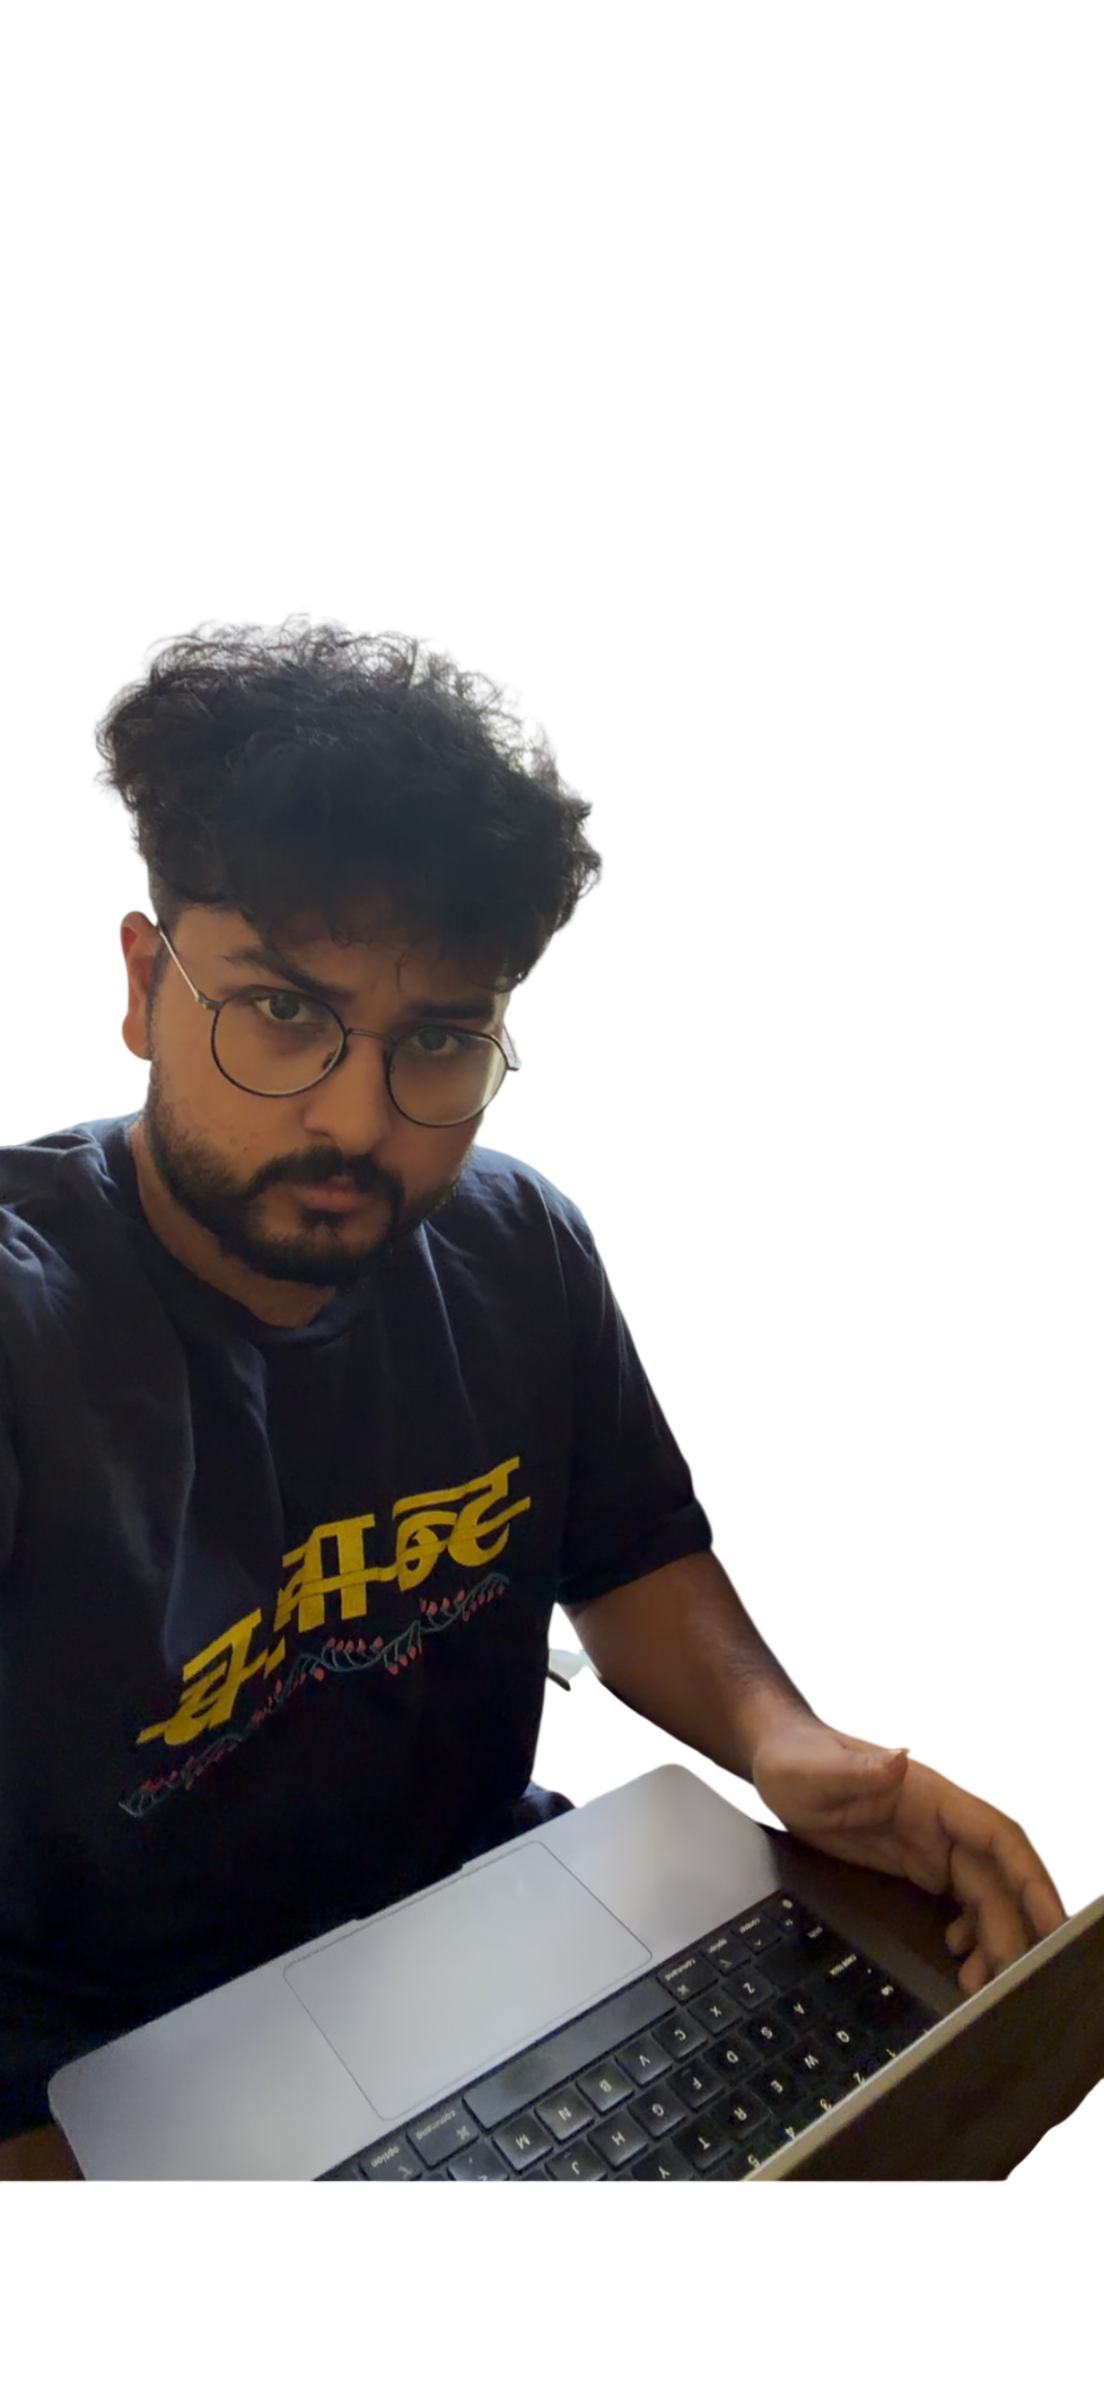
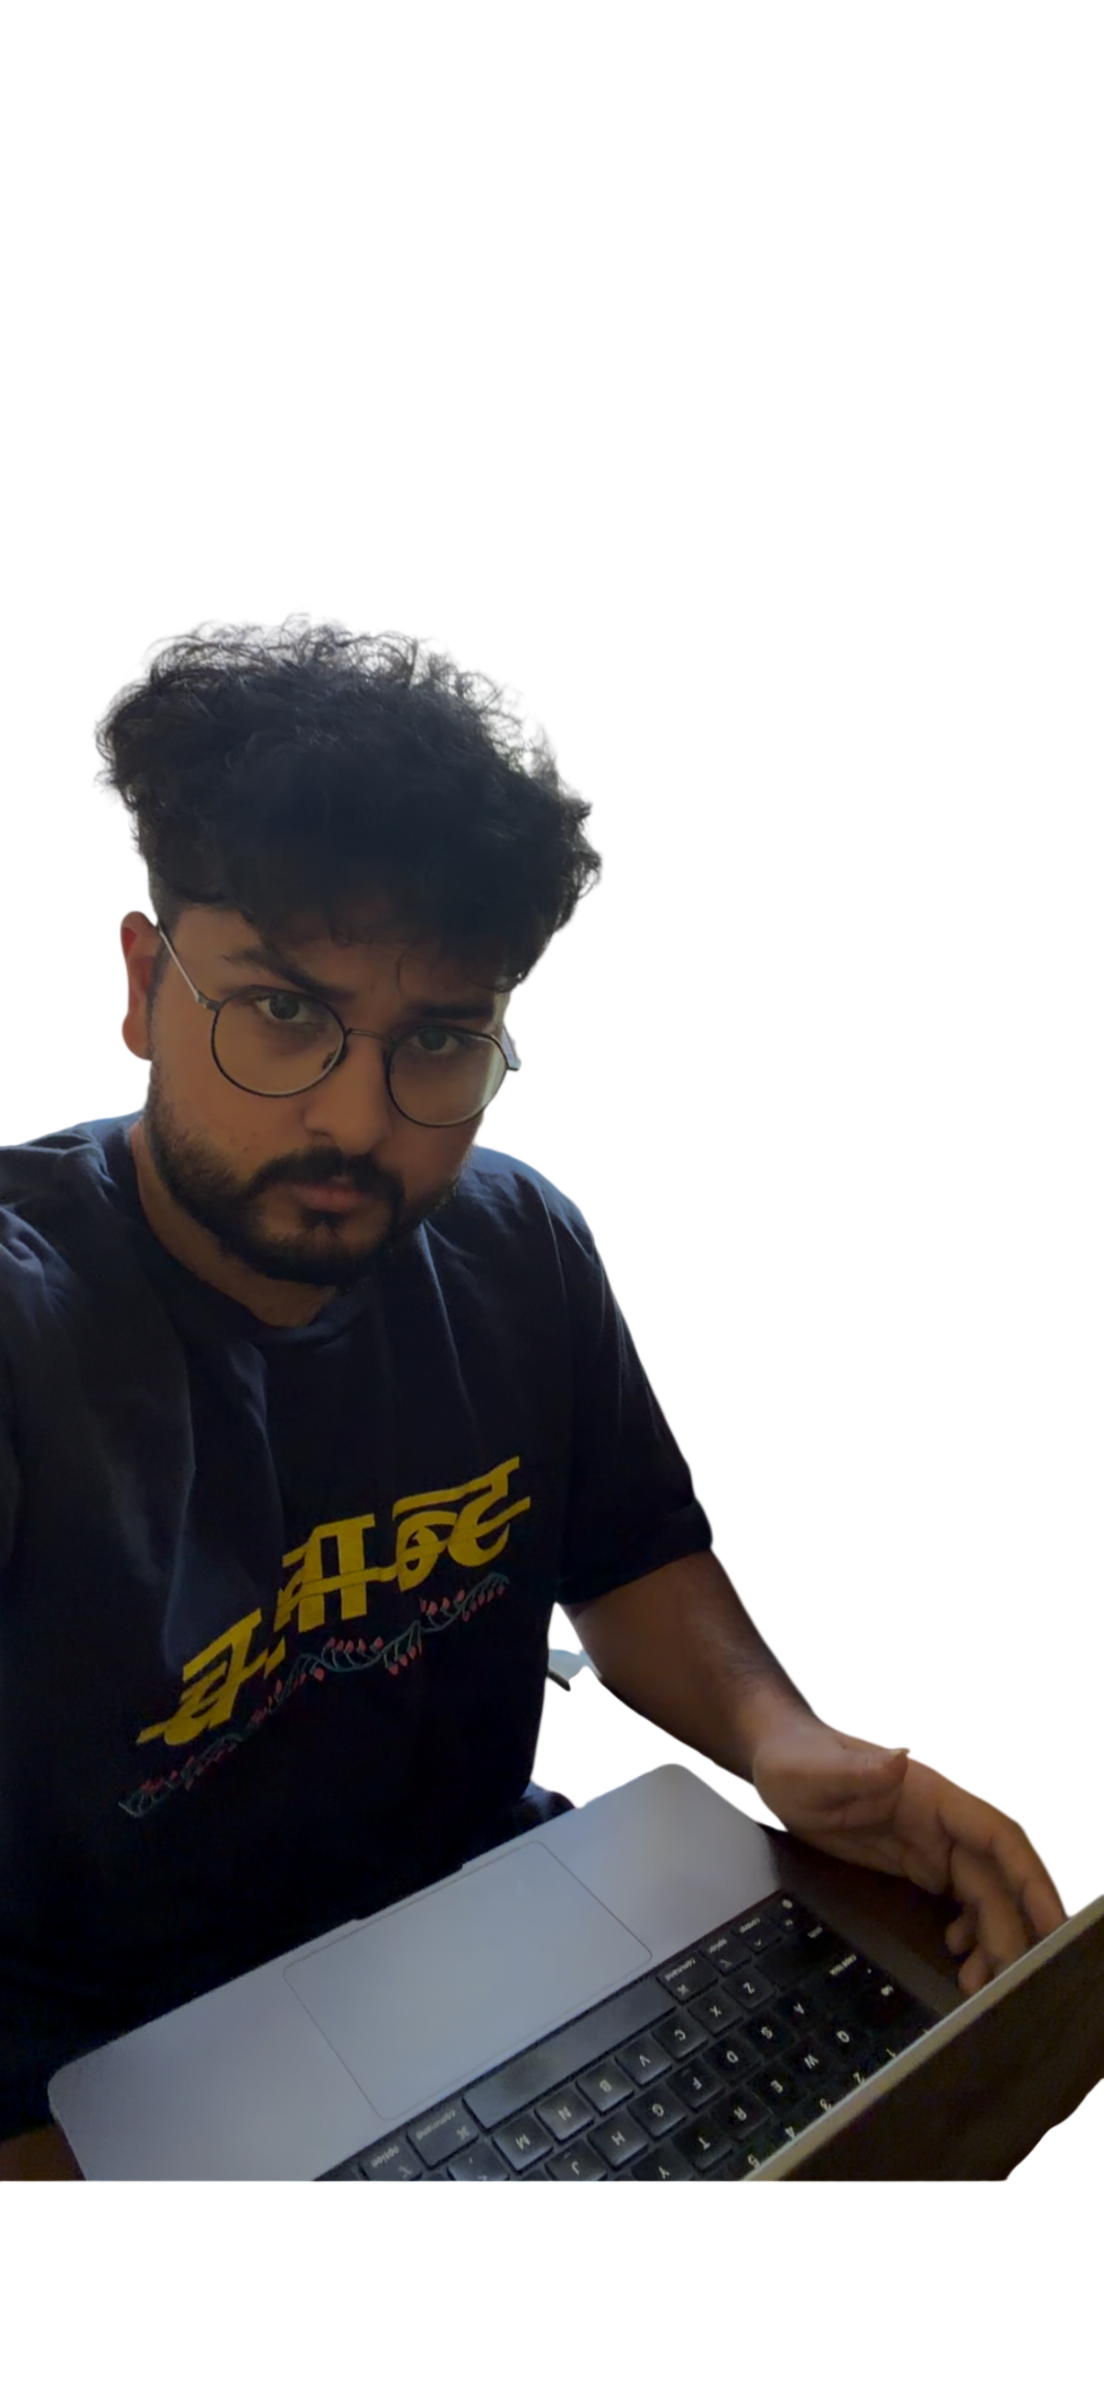
add: radial navbar

diff --git a/components/ui/navbar.tsx b/components/ui/navbar.tsx
@@ -1,11 +1,18 @@
 "use client";
 
-import { Menu, X } from "lucide-react";
-import { motion,useScroll, useSpring, useTransform, useVelocity } from "motion/react";
+import { FolderKanban, House, Menu, MessageCircle, User, X } from "lucide-react";
+import {
+  AnimatePresence,
+  motion,
+  useScroll,
+  useSpring,
+  useTransform,
+  useVelocity,
+} from "motion/react";
 import Image from "next/image";
 import Link from "next/link";
 import { usePathname } from "next/navigation";
-import { useState } from "react";
+import { useEffect, useState } from "react";
 
 import { cn } from "@/lib/utils";
 
@@ -132,10 +139,127 @@ function Notch() {
   );
 }
 
-export function Navbar() {
+const MAIL_HREF = "mailto:rohosen2@gmail.com?subject=Hello Roho! I'd like to discuss a project with you.";
+
+const radialItems = [
+  { href: "/", label: "Home", icon: House },
+  { href: "/work", label: "Work", icon: FolderKanban },
+  { href: "/#about", label: "About", icon: User },
+  { href: "/#contact", label: "Contact", icon: MessageCircle },
+];
+
+const RADIUS = 150;
+const DISC_SIZE = (RADIUS + 44) * 2;
+// Fan from straight left (180deg) to straight down (90deg), since the button sits top-right.
+const ARC_START = 180;
+const ARC_END = 90;
+
+function radialPosition(index: number) {
+  const step = (ARC_END - ARC_START) / (radialItems.length - 1);
+  const angle = ((ARC_START + step * index) * Math.PI) / 180;
+  return { x: Math.cos(angle) * RADIUS, y: Math.sin(angle) * RADIUS };
+}
+
+function RadialMenu() {
   const pathname = usePathname();
+  const [open, setOpen] = useState(false);
+
+  useEffect(() => setOpen(false), [pathname]);
+
+  useEffect(() => {
+    if (!open) return;
+    const onKey = (e: KeyboardEvent) => e.key === "Escape" && setOpen(false);
+    window.addEventListener("keydown", onKey);
+    return () => window.removeEventListener("keydown", onKey);
+  }, [open]);
+
+  return (
+    <div className="relative md:hidden">
+      <AnimatePresence>
+        {open && (
+          <>
+            <motion.div
+              key="scrim"
+              initial={{ opacity: 0 }}
+              animate={{ opacity: 1 }}
+              exit={{ opacity: 0 }}
+              onClick={() => setOpen(false)}
+              className="fixed inset-0 -z-10 bg-background/60 backdrop-blur-sm"
+            />
+            <motion.div
+              key="disc"
+              initial={{ scale: 0 }}
+              animate={{ scale: 1 }}
+              exit={{ scale: 0 }}
+              transition={{ type: "spring", stiffness: 260, damping: 26 }}
+              style={{ width: DISC_SIZE, height: DISC_SIZE, marginLeft: -DISC_SIZE / 2, marginTop: -DISC_SIZE / 2 }}
+              className="absolute left-1/2 top-1/2 -z-10 rounded-full border border-border bg-card/90"
+            />
+          </>
+        )}
+      </AnimatePresence>
+
+      <AnimatePresence>
+        {open &&
+          radialItems.map((item, index) => {
+            const { x, y } = radialPosition(index);
+            const isActive = item.href === pathname;
+            const Icon = item.icon;
+            const className = cn(
+              "flex size-12 items-center justify-center rounded-full border transition-colors",
+              isActive
+                ? "bg-primary text-primary-foreground border-primary"
+                : "bg-background text-foreground border-border active:bg-secondary"
+            );
+            return (
+              <motion.div
+                key={item.href}
+                initial={{ x: 0, y: 0, scale: 0, opacity: 0 }}
+                animate={{ x, y, scale: 1, opacity: 1 }}
+                exit={{ x: 0, y: 0, scale: 0, opacity: 0 }}
+                transition={{ type: "spring", stiffness: 380, damping: 24, delay: index * 0.035 }}
+                className="absolute left-1/2 top-1/2 -ml-6 -mt-6"
+              >
+                {item.href.startsWith("mailto:") ? (
+                  <a href={item.href} aria-label={item.label} onClick={() => setOpen(false)} className={className}>
+                    <Icon className="size-5" />
+                  </a>
+                ) : (
+                  <Link href={item.href} aria-label={item.label} onClick={() => setOpen(false)} className={className}>
+                    <Icon className="size-5" />
+                  </Link>
+                )}
+              </motion.div>
+            );
+          })}
+      </AnimatePresence>
+
+      <motion.button
+        type="button"
+        aria-label={open ? "Close menu" : "Open menu"}
+        aria-expanded={open}
+        onClick={() => setOpen((v) => !v)}
+        whileTap={{ scale: 0.9 }}
+        className={cn(
+          "relative flex size-10 items-center justify-center rounded-full transition-colors",
+          open ? "bg-primary text-primary-foreground" : "bg-black text-foreground"
+        )}
+      >
+        <motion.span
+          key={open ? "close" : "open"}
+          initial={{ rotate: -90, opacity: 0 }}
+          animate={{ rotate: 0, opacity: 1 }}
+          transition={{ duration: 0.2 }}
+        >
+          {open ? <X className="size-5" /> : <Menu className="size-5" />}
+        </motion.span>
+      </motion.button>
+    </div>
+  );
+}
+
+export function Navbar() {
   const { scrollY } = useScroll();
-  const [mobileMenuOpen, setMobileMenuOpen] = useState(false);
 
   const backgroundColor = useTransform(
     scrollY,
@@ -173,67 +297,15 @@ export function Navbar() {
             <div className="hidden md:block w-[1px]" />
 
             <div className="flex items-center gap-4">
-              <Link href="mailto:rohosen2@gmail.com?subject=Hello Roho! I'd like to discuss a project with you." className="hidden md:block">
+              <a href={MAIL_HREF} className="hidden md:block">
                 <Button variant="glow">Get in touch</Button>
-              </Link>
-              <Button
-                variant="ghost"
-                size="icon"
-                className="md:hidden bg-black rounded-full aspect-square"
-                onClick={() => setMobileMenuOpen(!mobileMenuOpen)}
-              >
-                {mobileMenuOpen ? <X /> : <Menu />}
-              </Button>
+              </a>
+              <RadialMenu />
             </div>
           </div>
         </nav>
       </motion.header>
 
-      {mobileMenuOpen && (
-        <motion.div
-          initial={{ opacity: 0, y: -20 }}
-          animate={{ opacity: 1, y: 0 }}
-          exit={{ opacity: 0, y: -20 }}
-          className="fixed inset-0 z-40 bg-background pt-20 md:hidden"
-        >
-          <nav className="container px-4 py-8">
-            <div className="flex flex-col gap-2">
-              {navLinks.map((link, index) => (
-                <motion.div
-                  key={link.href}
-                  initial={{ opacity: 0, x: -20 }}
-                  animate={{ opacity: 1, x: 0 }}
-                  transition={{ delay: index * 0.1 }}
-                >
-                  <Link
-                    href={link.href}
-                    onClick={() => setMobileMenuOpen(false)}
-                  >
-                    <Button
-                      variant="ghost"
-                      className="w-full justify-start text-2xl font-display py-6"
-                    >
-                      {link.label}
-                    </Button>
-                  </Link>
-                </motion.div>
-              ))}
-              <motion.div
-                initial={{ opacity: 0, x: -20 }}
-                animate={{ opacity: 1, x: 0 }}
-                transition={{ delay: navLinks.length * 0.1 }}
-                className="mt-4"
-              >
-                <Link href="mailto:rohosen2@gmail.com?subject=Hello Roho! I'd like to discuss a project with you." onClick={() => setMobileMenuOpen(false)}>
-                  <Button variant="glow" className="w-full" size="lg">
-                    Get in touch
-                  </Button>
-                </Link>
-              </motion.div>
-            </div>
-          </nav>
-        </motion.div>
-      )}
     </>
   );
 }

diff --git a/components/ui/footer.tsx b/components/ui/footer.tsx
@@ -1,8 +1,10 @@
 "use client";
 
+import { ArrowUpRight, Github, Linkedin, Mail, Twitter } from "lucide-react";
 import { motion } from "motion/react";
 import Link from "next/link";
-import { Github, Linkedin, Twitter, Mail, ArrowUpRight } from "lucide-react";
+
+import { site } from "@/lib/profile";
 
 const socialLinks = [
   { href: "https://github.com/roho7", icon: Github, label: "GitHub" },
@@ -54,6 +56,20 @@ export function Footer() {
                 <ArrowUpRight className="w-6 h-6 transition-transform group-hover:translate-x-1 group-hover:-translate-y-1" />
               </Link>
             </motion.div>
+            <motion.div
+              initial={{ opacity: 0, y: 20 }}
+              whileInView={{ opacity: 1, y: 0 }}
+              viewport={{ once: true }}
+              transition={{ delay: 0.2 }}
+            >
+              <Link
+                href={`https://wa.me/${site.whatsapp}?text=${encodeURIComponent("Hi Roho! I'd like to discuss a project with you.")}`}
+                className="group inline-flex items-center gap-3 text-2xl md:text-3xl font-display font-bold hover:text-primary transition-colors"
+              >
+                +919836025090
+                <ArrowUpRight className="w-6 h-6 transition-transform group-hover:translate-x-1 group-hover:-translate-y-1" />
+              </Link>
+            </motion.div>
 
             <motion.div
               initial={{ opacity: 0, y: 20 }}
@@ -86,12 +102,8 @@ export function Footer() {
           className="mt-16 pt-8 border-t border-border flex flex-col md:flex-row justify-between items-center gap-4"
         >
           <p className="text-muted-foreground text-sm">
-            © {new Date().getFullYear()} Rohosen Bhattacharya. All rights reserved.
-          </p>
-          <p className="text-muted-foreground text-sm">
-            Designed & Built with{" "}
-            <span className="text-primary">Next.js</span> &{" "}
-            <span className="text-primary">Sanity</span>
+            Designed & Built with care by
+            <span className="text-primary">{" "}Roho</span>
           </p>
         </motion.div>
       </div>

diff --git a/components/sections/intro.tsx b/components/sections/intro.tsx
@@ -26,7 +26,7 @@ function InlineLink({ href, children }: { href: string; children: React.ReactNod
 
 export function Intro({ contributions }: { contributions: Contributions | null }) {
   return (
-    <section id="intro" className="px-4 md:px-6 py-20 md:py-28">
+    <section id="about" className="px-4 md:px-6 py-20 md:py-28">
       <motion.div
         initial={{ opacity: 0, y: 24 }}
         whileInView={{ opacity: 1, y: 0 }}
@@ -36,7 +36,7 @@ export function Intro({ contributions }: { contributions: Contributions | null }
       >
         <div className="flex items-center gap-5">
           <Image
-            src="/cropped-face.png"
+            src="/full-face.png"
             alt={site.name}
             width={96}
             height={96}
@@ -55,10 +55,10 @@ export function Intro({ contributions }: { contributions: Contributions | null }
           </p>
           <p>
             I was a Senior Founding Engineer at <InlineLink href="https://periskope.app/">Periskope</InlineLink>,
-            was building AI Agents for WhatsApp. Made a lot of customers happy and learnt almost everything I know about building products.
+            building AI Agents for WhatsApp. Made a lot of customers happy and learnt almost everything I know about building products.
           </p>
           <p>
-            Recently, I joined <InlineLink href="https://fireflies.ai/">Fireflies AI</InlineLink>, as a Senior Engineer in the payments team, where I built payments infrastructures
+            Recently, I joined <InlineLink href="https://fireflies.ai/">Fireflies AI</InlineLink>, as a Senior Engineer in the payments team, where I'm building payments infrastructures
             and GTM tools.
           </p>
           <p>

diff --git a/components/sections/about.tsx b/components/sections/about.tsx
@@ -96,7 +96,7 @@ function Education() {
 
 export function About() {
   return (
-    <section id="about" className="px-4 md:px-6 py-20 md:py-28">
+    <section className="px-4 md:px-6 py-20 md:py-28">
       <div className="max-w-3xl mx-auto flex flex-col gap-20">
         <Experience />
         <Education />
